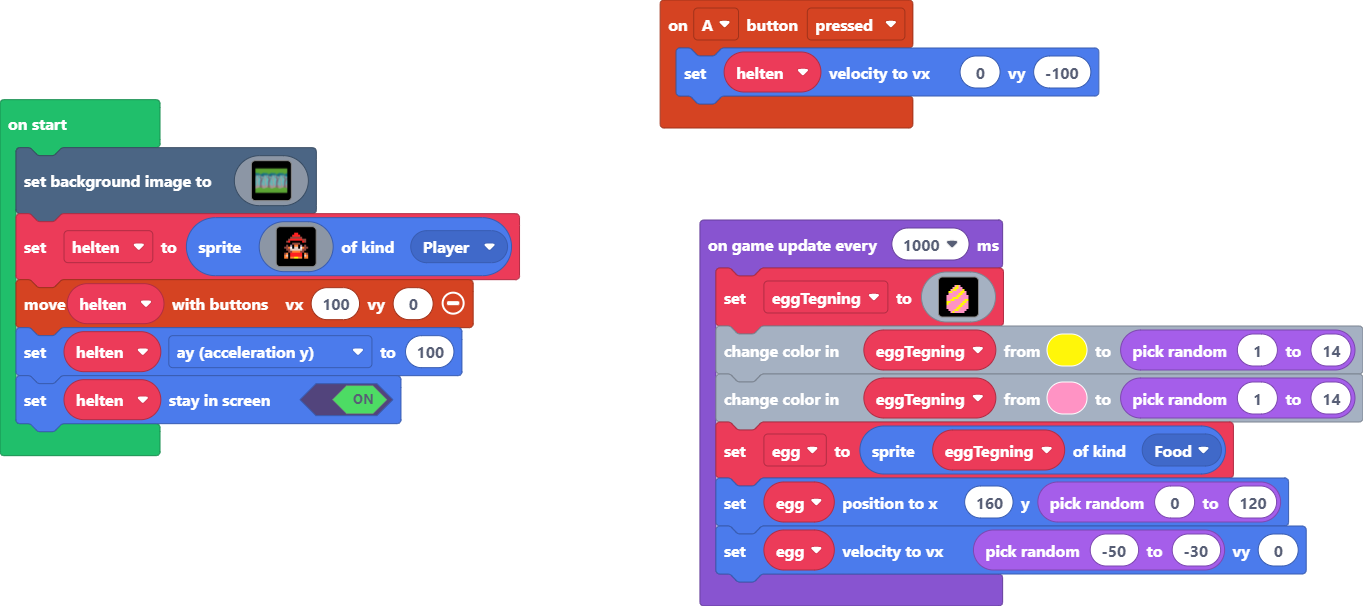
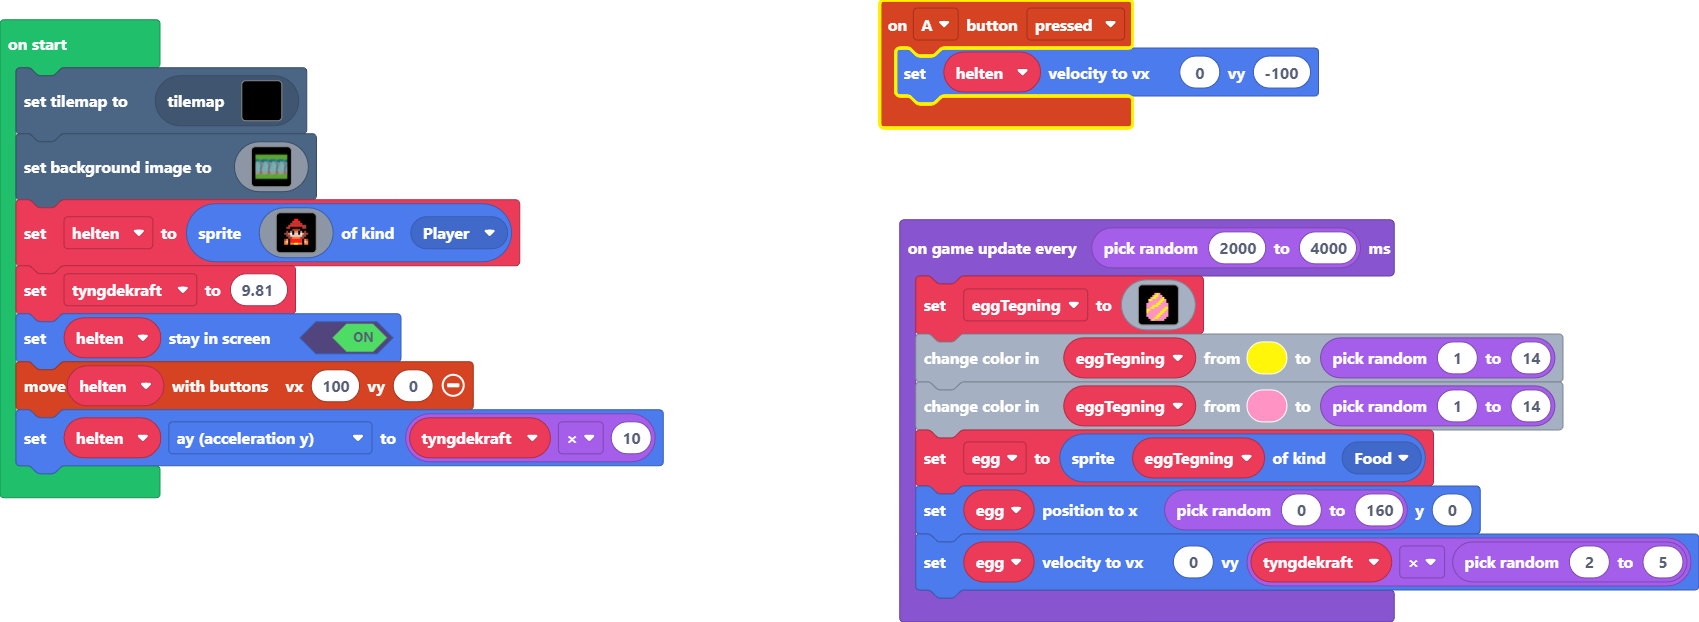
Egg spawn, top down

diff --git a/tilemap.g.ts b/tilemap.g.ts
@@ -24,6 +24,36 @@ namespace myTiles {
 . . . . . . . . . . . . . . . . 
 . . . . . . . . . . . . . . . . 
 `, [myTiles.transparency16,sprites.castle.tileGrass1], TileScale.Sixteen);
+            case "level2":
[1 lines of base64/hex data omitted]
+. . . . . . . . . . . . . . . . 
+. . . . . . . . . . . . . . . . 
+. . . . . . . . . . . . . . . . 
+. . . . . . . . . . . . . . . . 
+. . . . . . . . . . . . . . . . 
+. . . . . . . . . . . . . . . . 
+. . . . . . . . . . . . . . . . 
+. . . . . . . . . . . . . . . . 
+. . . . . . . . . . . . . . . . 
+. . . . . . . . . . . . . . . . 
+. . . . . . . . . . . . . . . . 
+. . . . . . . . . . . . . . . . 
+`, [myTiles.transparency16,sprites.builtin.forestTiles22], TileScale.Sixteen);
+            case "level3":
[1 lines of base64/hex data omitted]
+. . . . . . . . . . 2 
+. . . . . . . . . . 2 
+. . . . . . . . . . 2 
+. . . . . . . . . . 2 
+. . . . . . . . . . 2 
+. . . . . . . . . . 2 
+. . . . . . . . . . 2 
+. . . . . . . . . . 2 
+. . . . . . . . . . 2 
+. . . . . . . . . . 2 
+. . . . . . . . . . 2 
+2 2 2 2 2 2 2 2 2 2 2 
+`, [myTiles.transparency16], TileScale.Sixteen);
         }
         return null;
     })

diff --git a/main.ts b/main.ts
@@ -4,6 +4,7 @@ controller.A.onEvent(ControllerButtonEvent.Pressed, function () {
 let egg: Sprite = null
 let eggTegning: Image = null
 let helten: Sprite = null
+tiles.setCurrentTilemap(tilemap`level3`)
 scene.setBackgroundImage(img`
     7777777777777777777777777777777777777777777777777777777777777777777777777777777777777777777777777777777777777777777777777777777777777777777777777777777777777777
     7777777777777777777777777777777777777777777777777777777777777777777777777777777777777777777777777777777777777777777777777777777777777777777777777777777777777777
@@ -144,14 +145,15 @@ helten = sprites.create(img`
     . . . . . f f f f f f . . . . . 
     . . . . . f f . . f f . . . . . 
     `, SpriteKind.Player)
-controller.moveSprite(helten, 100, 0)
-helten.ay = 100
+let tyngdekraft = 9.81
 helten.setStayInScreen(true)
-game.onUpdateInterval(1000, function () {
+controller.moveSprite(helten, 100, 0)
+helten.ay = tyngdekraft * 10
+game.onUpdateInterval(randint(2000, 4000), function () {
     eggTegning = assets.image`egg1`
     eggTegning.replace(5, randint(1, 14))
     eggTegning.replace(3, randint(1, 14))
     egg = sprites.create(eggTegning, SpriteKind.Food)
-    egg.setPosition(160, randint(0, 120))
-    egg.setVelocity(randint(-50, -30), 0)
+    egg.setPosition(randint(0, 160), 0)
+    egg.setVelocity(0, tyngdekraft * randint(2, 5))
 })
